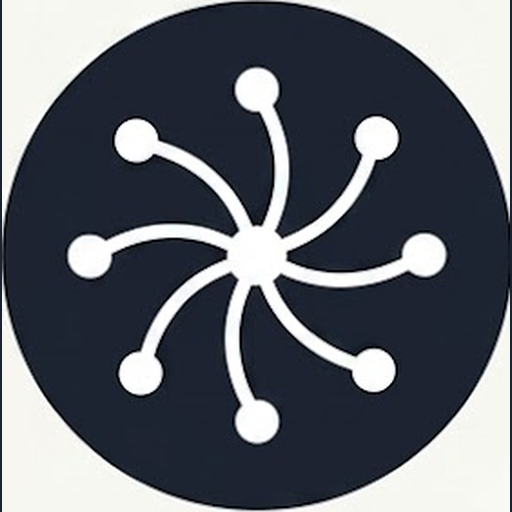
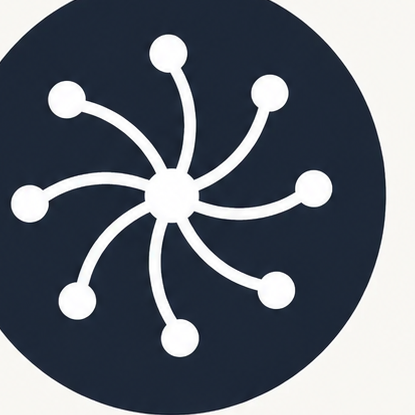
Replace branding assets with HQ exports and update docs.
Swap logo-primary and overview for high-res symbol-only exports, derive icon crops at native resolution, and document actual dimensions in branding README.

diff --git a/assets/branding/README.md b/assets/branding/README.md
@@ -4,19 +4,20 @@ Official Octo Cluster logos and icons. MIT-licensed project assets — see [LICE
 
 ## Files
 
-| File | Variant | Use when |
-|------|---------|----------|
-| [`logo-primary.png`](./logo-primary.png) | Primary logo (refurbished, with wordmark) | Docs headers, presentations, social banners |
-| [`app-icon.png`](./app-icon.png) | App icon (rounded square, 1024×1024) | Desktop/mobile app icons, PWA manifest |
-| [`favicon.png`](./favicon.png) | Favicon (simplified mark, ring border) | Browser tabs, small UI chrome |
-| [`github-avatar.png`](./github-avatar.png) | GitHub avatar (512×512 circle) | GitHub org/repo profile image |
-| [`logo-system-overview.png`](./logo-system-overview.png) | Reference sheet (A–D) | Design reference only — not for production embed |
+| File | Variant | Dimensions | Use when |
+|------|---------|------------|----------|
+| [`logo-primary.png`](./logo-primary.png) | Primary symbol (detailed, **no wordmark**) | 1672×941 | Docs headers, README hero, presentations |
+| [`app-icon.png`](./app-icon.png) | App icon (rounded square) | 565×565 | Desktop/mobile app icons, PWA manifest |
+| [`favicon.png`](./favicon.png) | Favicon (simplified mark) | 256×256 | Browser tabs, small UI chrome |
+| [`github-avatar.png`](./github-avatar.png) | GitHub avatar (circle) | 415×415 | GitHub org/repo profile image |
+| [`wallpaper-dark.png`](./wallpaper-dark.png) | Desktop wallpaper (2560×1440, navy) | 2560×1440 | Personal desktop background — not for embed |
+| [`logo-system-overview.png`](./logo-system-overview.png) | Reference sheet (3 variants) | 1254×1254 | Design reference only — not for production embed |
 
 ## Usage
 
 - Prefer **PNG** sources from this folder; do not upscale raster assets.
 - Keep aspect ratio; do not stretch or recolor without a design pass.
-- For README embed: `![Octo Cluster](./assets/branding/logo-primary.png)` (resize via HTML width if needed).
+- For README embed: `width` must be ≤ native width of `logo-primary.png` (downscale only).
 
 ## Validation
 
@@ -24,12 +25,14 @@ Official Octo Cluster logos and icons. MIT-licensed project assets — see [LICE
 Get-ChildItem assets/branding/*.png | Select-Object Name, Length
 ```
 
-Expect five PNG files plus this README.
+Expect six PNG files plus this README.
 
 ## Limitations
 
 - Raster only (no SVG in repo yet). ponytail: add `logo-primary.svg` when a vector export exists.
-- `logo-system-overview.png` is a composite reference — use the individual files above in products.
+- `logo-primary.png` is symbol-only; wordmark no longer bundled.
+- `app-icon`, `github-avatar`, and `favicon` are cropped from `logo-system-overview.png` at native resolution (no upscale). Re-export individual files when standalone HQ versions exist.
+- `wallpaper-dark.png` unchanged — no HQ export in source batch.
 
 ## Related
 

diff --git a/README.md b/README.md
@@ -1,7 +1,7 @@
 # Octo Cluster
 
 <p align="center">
-  <img src="./assets/branding/logo-primary.png" alt="Octo Cluster" width="128" />
+  <img src="./assets/branding/logo-primary.png" alt="Octo Cluster" width="320" />
 </p>
 
 **All-in-one local harness for AI-assisted development** — RAG, memory, token economy, hooks, and verify gates in one workspace folder. Maximize automation; use the model only when judgment is required.

diff --git a/assets/README.md b/assets/README.md
@@ -4,6 +4,6 @@ Static assets for the Octo Cluster project (not runtime harness code).
 
 | Path | Content |
 |------|---------|
-| [`branding/`](./branding/) | Logos, app icon, favicon, GitHub avatar |
+| [`branding/`](./branding/) | Logos, app icon, favicon, GitHub avatar, dark wallpaper |
 
 See [branding/README.md](./branding/README.md) for file names and usage.
